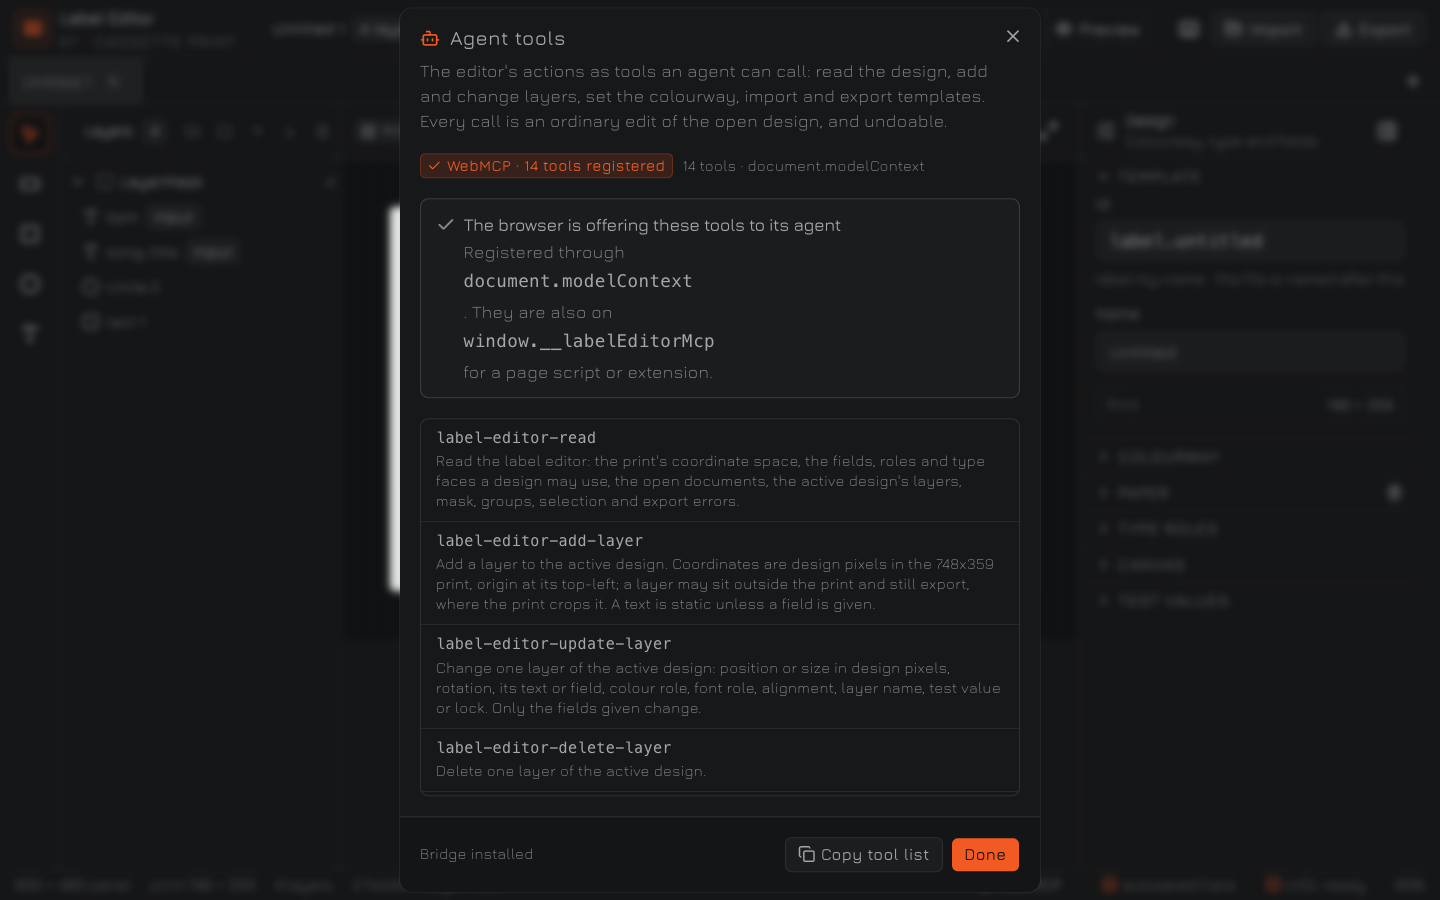
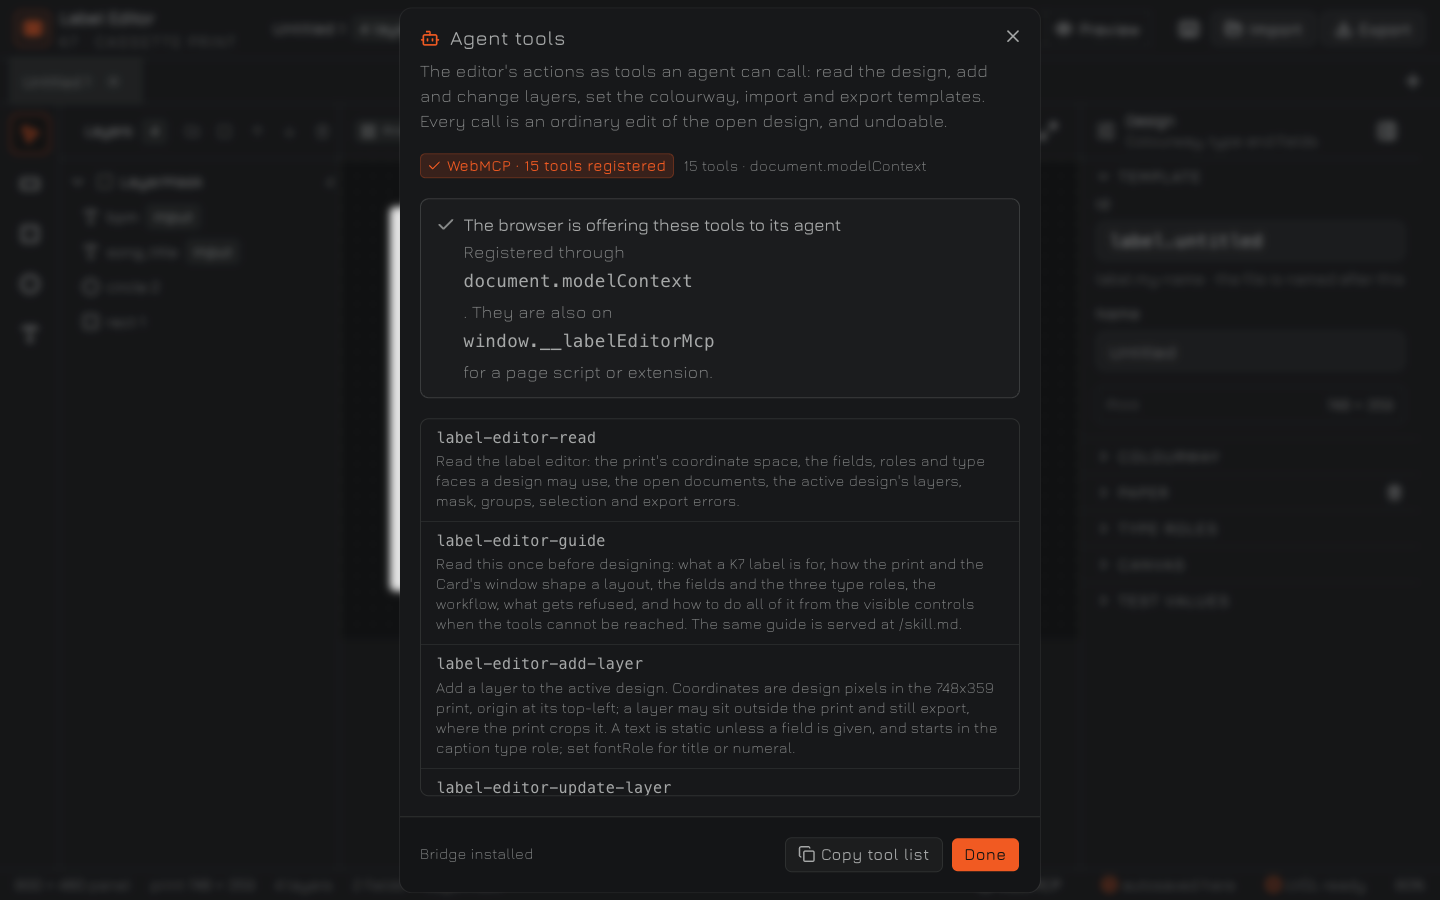
An agent can read the guide in the page when a session blocks its routes
A browser session reported back that `/skill.md` was blocked and its shell could not reach
the page: the tools were there, the instructions were not, and the work carried on by
eyeballing the canvas. A guide that can be unreachable mid-task is not a guide.

The page now answers the guide as a tool. `label-editor-guide` returns the skill's prose — no
generated tool block, which the caller's own tool list already carries, and no frontmatter —
so a session that will not fetch a route still reads what a label is, where the Card's window
cuts it, and what to do. The text is passed in from the skill file at boot, so there is still
one source; `src/webmcp/skill-text.ts` is the one module with the `?raw` import, kept out of
the registry because the skill generator loads that registry through Node and a Vite-only
import would not resolve.

The skill also gains *Driving the visible controls*, for the session that cannot call tools at
all: the tab strip's + for a clean design (the canvas may open on an earlier autosaved one),
the rail for shapes and text, the Inspector's Template/Colourway/Paper/Type roles for the
design, Content for a field, Typography and Appearance for the look, Layers for the order,
Preview and Export to check and land it. Every tool has a control, so a blocked route costs a
click, not the label.

Fifteen tools now: the native spec, the README and the Agent tools screenshot (regenerated in
[…]

Changed region(s): [[0.3125, 0.5911, 0.6875, 0.9022], [0.4062, 0.1556, 0.4688, 0.1867]]

diff --git a/tools/LabelEditor/src/webmcp/skill.test.ts b/tools/LabelEditor/src/webmcp/skill.test.ts
@@ -18,7 +18,7 @@ const skillPath = fileURLToPath(
   new URL("../../skills/k7-labels/SKILL.md", import.meta.url),
 );
 const skill = readFileSync(skillPath, "utf8");
-const tools = labelEditorTools({} as Editor);
+const tools = labelEditorTools({} as Editor, { guide: skill });
 
 /** The hand-written part: everything outside the generated markers. */
 const prose = (() => {
@@ -51,5 +51,18 @@ describe("the K7 label skill", () => {
 
   it("says what the print's box is, because every coordinate is in it", () => {
     expect(prose).toContain("748 × 359");
+  });
+
+  it("hands an agent the guide as a tool result, for a session that blocks routes", () => {
+    const guide = tools.find((t) => t.name === "label-editor-guide");
+    expect(guide).toBeTruthy();
+    const out = guide!.execute({}) as { ok: boolean; guide: string; url: string };
+    expect(out.ok).toBe(true);
+    expect(out.url).toBe("/skill.md");
+    expect(out.guide.startsWith("# A label for the K7")).toBe(true);
+    expect(out.guide).toContain("748 × 359");
+    expect(out.guide).toContain("Driving the visible controls");
+    // The tool list is the caller's own; the generated block does not travel with the prose.
+    expect(out.guide).not.toContain("generated: tools:start");
   });
 });

diff --git a/tools/LabelEditor/src/webmcp/tools.ts b/tools/LabelEditor/src/webmcp/tools.ts
@@ -1,6 +1,7 @@
 import type { Editor } from "@/engine/editor";
 import type { Obj, Tool } from "@/engine/types";
 import type { LabelTool } from "@/webmcp/types";
+import { skillProse } from "./skill";
 import {
   FROLES,
   PRINT_H,
@@ -158,7 +159,10 @@ function docsSummary(ed: Editor) {
   }));
 }
 
-export function labelEditorTools(ed: Editor): LabelTool[] {
+export function labelEditorTools(
+  ed: Editor,
+  opts: { guide: string },
+): LabelTool[] {
   return [
     {
       name: "label-editor-read",
@@ -207,6 +211,18 @@ export function labelEditorTools(ed: Editor): LabelTool[] {
           ...(args.includeTemplate === true ? { template: tpl.doc } : {}),
         };
       },
+    },
+
+    {
+      name: "label-editor-guide",
+      description:
+        "Read this once before designing: what a K7 label is for, how the print and the Card's window shape a layout, the fields and the three type roles, the workflow, what gets refused, and how to do all of it from the visible controls when the tools cannot be reached. The same guide is served at /skill.md.",
+      inputSchema: schema({}),
+      execute: () => ({
+        ok: true,
+        guide: skillProse(opts.guide),
+        url: "/skill.md",
+      }),
     },
 
     {

diff --git a/tools/LabelEditor/src/webmcp/register.ts b/tools/LabelEditor/src/webmcp/register.ts
@@ -1,6 +1,7 @@
 import type { Editor } from "@/engine/editor";
 import { labelEditorTools } from "./tools";
 import type { LabelTool, ModelContextLike } from "./types";
+import { SKILL_TEXT } from "./skill-text";
 
 export interface WebMcpStatus {
   available: boolean;
@@ -45,7 +46,7 @@ export function modelContext(): ModelContextLike | null {
 
 /** Install `window.__labelEditorMcp` so a page script or extension can call the tools. */
 export function installBridge(ed: Editor): LabelEditorBridge {
-  const tools = labelEditorTools(ed);
+  const tools = labelEditorTools(ed, { guide: SKILL_TEXT });
   const byName = new Map(tools.map((t) => [t.name, t]));
   const bridge: LabelEditorBridge = {
     tools: () =>
@@ -74,7 +75,7 @@ export function installBridge(ed: Editor): LabelEditorBridge {
  * rather than leaving an agent with half a surface.
  */
 export async function registerLabelEditorTools(ed: Editor): Promise<WebMcpStatus> {
-  const tools = labelEditorTools(ed);
+  const tools = labelEditorTools(ed, { guide: SKILL_TEXT });
   installBridge(ed);
   webmcpStatus.tools = tools.length;
   if (registering) return webmcpStatus;

diff --git a/tools/LabelEditor/src/webmcp/skill.ts b/tools/LabelEditor/src/webmcp/skill.ts
@@ -105,6 +105,22 @@ export function renderSkillSection(tools: LabelTool[]): string {
   ].join("\n");
 }
 
+/**
+ * The hand-written guide, with the generated tool list taken out. This is what the page hands
+ * an agent through `label-editor-guide`, whose own tool list already carries the schemas.
+ */
+export function skillProse(skill: string): string {
+  const start = skill.indexOf(SKILL_TOOLS_START);
+  const end = skill.indexOf(SKILL_TOOLS_END);
+  const withoutTools =
+    start < 0 || end < 0 || end < start
+      ? skill
+      : skill.slice(0, start) + skill.slice(end + SKILL_TOOLS_END.length);
+  // The YAML frontmatter is the skill loader's; a tool result needs the guide itself.
+  const withoutFrontmatter = withoutTools.replace(/^---\n[\s\S]*?\n---\n/, "");
+  return withoutFrontmatter.replace(/\n{3,}/g, "\n\n").trim();
+}
+
 /** Read a skill file and return the generated body, or null when the markers are missing. */
 export function readSkillSection(skill: string): string | null {
   const start = skill.indexOf(SKILL_TOOLS_START);

diff --git a/tools/LabelEditor/src/components/agent-tools-dialog.tsx b/tools/LabelEditor/src/components/agent-tools-dialog.tsx
@@ -14,6 +14,7 @@ import {
   DialogTitle,
 } from "@/components/ui/dialog";
 import { useEditor } from "@/hooks/use-editor";
+import { SKILL_TEXT } from "@/webmcp/skill-text";
 import { labelEditorTools } from "@/webmcp/tools";
 import { webmcpStatus } from "@/webmcp/register";
 
@@ -30,7 +31,7 @@ export function AgentToolsDialog({
   onOpenChange: (v: boolean) => void;
 }) {
   const ed = useEditor();
-  const tools = useMemo(() => labelEditorTools(ed), [ed]);
+  const tools = useMemo(() => labelEditorTools(ed, { guide: SKILL_TEXT }), [ed]);
   const status = webmcpStatus;
   const bridge =
     typeof window !== "undefined" ? window.__labelEditorMcp : undefined;

diff --git a/tools/LabelEditor/src/webmcp/skill-text.ts b/tools/LabelEditor/src/webmcp/skill-text.ts
@@ -1,0 +1,11 @@
+/**
+ * The skill's text, as the page sees it.
+ *
+ * This is the one module that uses Vite's `?raw` import, and it is kept out of `tools.ts`
+ * and `skill.ts` for a reason: `scripts/build-skill.mjs` loads the registry through Node
+ * (jiti) to regenerate the skill's tool reference, and a `?raw` import would not resolve
+ * there. The page passes the text in; the registry stays plain TypeScript.
+ */
+import skillText from "../../skills/k7-labels/SKILL.md?raw";
+
+export const SKILL_TEXT = skillText;

diff --git a/tools/LabelEditor/src/webmcp/tools.test.ts b/tools/LabelEditor/src/webmcp/tools.test.ts
@@ -4,7 +4,7 @@ import type { Editor } from "@/engine/editor";
 import { labelEditorTools } from "./tools";
 
 // The rules are pure metadata; execute is exercised in the browser tests.
-const tools = labelEditorTools({} as Editor);
+const tools = labelEditorTools({} as Editor, { guide: "" });
 
 describe("the WebMCP tool surface", () => {
   it("has unique, kebab-case names", () => {

diff --git a/tools/LabelEditor/e2e/webmcp-native.spec.ts b/tools/LabelEditor/e2e/webmcp-native.spec.ts
@@ -29,7 +29,7 @@ test("registers with Chrome's WebMCP and runs a tool", async ({ page }) => {
         }),
       { timeout: 10_000 },
     )
-    .toBe(14);
+    .toBe(15);
 
   // Chrome's testing API serialises a tool's return value to JSON text.
   const added = await page.evaluate(async () => {

diff --git a/tools/LabelEditor/skills/k7-labels/SKILL.md b/tools/LabelEditor/skills/k7-labels/SKILL.md
@@ -12,8 +12,9 @@ every Track in the library, so a label is a layout plus references to the player
 
 You design it in the **Label Editor**, a page that offers its actions to you as tools. This
 file is the working guide; `tools/LabelEditor/README.md` and the repository's
-`docs/specs/label-templates.md` are the deeper reference, and the editor serves this file at
-`/skill.md`.
+`docs/specs/label-templates.md` are the deeper reference. The editor serves this file at
+`/skill.md`, and `label-editor-guide` returns it as a tool result for a session where that
+route is blocked.
 
 ## What you are designing
 
@@ -41,6 +42,10 @@ the one to call first. If you cannot see them, the editor page is not open, or t
 no WebMCP — ask the human to open http://localhost:5178 in a browser that has the API. The
 same calls also live on `window.__labelEditorMcp` for a page script, which is how the repo's
 own `scripts/test-label.mjs` drives them.
+
+If the page's routes are blocked, call `label-editor-guide` instead of reading `/skill.md`.
+If the tools themselves cannot be reached, every action still has a visible control — see
+*Driving the visible controls*, below — so a label is still finishable in this session.
 
 - **Read first, every time.** `label-editor-read` returns the board, the fields, the colour
   roles, the type roles, the open documents, and the active design's layers and export errors.
@@ -116,6 +121,10 @@ cut at 96 characters. A design with no layer at all is refused.
 
 ## The tools
 
+The complete reference — every tool, its sentence and its arguments — is written below from
+the page's own registry. When you read this through `label-editor-guide` that block is left
+out, because your tool list already carries the same schemas.
+
 <!-- generated: tools:start -->
 ### `label-editor-read`
 
@@ -124,6 +133,12 @@ Read the label editor: the print's coordinate space, the fields, roles and type 
 | Argument | Type | Required | Notes |
 |---|---|---|---|
 | `includeTemplate` | `boolean` |  | Also return the active design as a label-template v1 object. |
+
+### `label-editor-guide`
+
+Read this once before designing: what a K7 label is for, how the print and the Card's window shape a layout, the fields and the three type roles, the workflow, what gets refused, and how to do all of it from the visible controls when the tools cannot be reached. The same guide is served at /skill.md.
+
+Takes no arguments.
 
 ### `label-editor-add-layer`
 
@@ -372,6 +387,34 @@ A refusal is a sentence naming the design and the layer, so read it rather than 
 The last gate is the packer, which the human runs: it refuses the same facts, and a file in
 `assets/labels/templates/` that is not a design fails the firmware build by name. So check the
 JSON you hand over: `v`, `id`, `space`, `prims` at least, and `errors: []` from the export.
+
+## Driving the visible controls
+
+If you cannot reach the tools — a browser agent that only clicks, or a session whose network
+blocks the page's routes — every action above has a control. The page is the editor: a rail on
+the left, the Layers panel and the print in the middle, the Inspector on the right, and the
+documents' tabs across the top.
+
+1. **Start clean.** The **+** at the end of the tab strip opens a new design. Every design
+   autosaves in this browser, so the canvas may open on one from last time: start a new one
+   rather than editing earlier work.
+2. **Set the design.** With nothing selected the Inspector shows it: **Template** (Id, Name),
+   **Colourway** (ink, rule, the eight bands), **Paper** (colour and radius — it is the
+   LayerMask, and without it there is no background), **Type roles** (the three pairs), and
+   **Test values** (what the fields preview).
+3. **Add layers.** The rail: **Rectangle (R)**, **Square (S)**, **Circle (O)**, **Text (T)** —
+   pick one, then click the print where it goes; **Select (V)** to stop adding. Fine-tune in
+   **Layout**: X, Y, Width (a text's *wrap width*), Height, Radius, Rotation °.
+4. **Give a text its job.** **Content** → **Kind**: *Dynamic text (from a field)*, then
+   **Field**; or *Static text*, then **Text**. **Test value** changes only the preview.
+5. **Give it its look.** **Typography** → **Font role** (title, numeral, caption) and
+   **Align**; **Appearance** → **Colour role** (ink or a band).
+6. **Order the layers.** The Layers panel lists the front layer first: drag a row, or use
+   **Raise** and **Lower** in its header, to put a band behind the type.
+7. **Check and export.** **Preview** (the Design/Preview switch in the app bar) draws it with
+   the LVGL build the panel runs; **Export** writes the JSON, or says what stops it.
+
+That is the same design the tools build, one click at a time.
 
 ## When you are done
 

diff --git a/tools/LabelEditor/README.md b/tools/LabelEditor/README.md
@@ -120,9 +120,14 @@ tools live in the page that owns the design, so an MCP client reaches them throu
 browser: native WebMCP, the bridge below, or Playwright (`scripts/test-label.mjs`). A server
 would have to own a page to be useful, and then two places would hold the same design.
 
+A session that will not fetch a route still gets the guide: `label-editor-guide` returns it as
+a tool result. A session that cannot call the tools at all can still make the label — the same
+guide says which visible controls do what.
+
 | Tool | What it does |
 |---|---|
 | `label-editor-read` | The coordinate space, fields, roles, type faces, open documents, layers, mask, groups, selection and export errors. |
+| `label-editor-guide` | The guide to designing a K7 label in one result — the print and the Card's window, the fields, the workflow, the refusals, and the visible-controls path. The same file is served at `/skill.md`; this is for a session that blocks routes. |
 | `label-editor-add-layer` | Add a rect, square, circle or text at a design-pixel position; a text is static unless it names a field. |
 | `label-editor-update-layer` | Change one layer's position, size, rotation, text or field, role, font role, alignment, name, test value or lock. |
 | `label-editor-delete-layer` | Delete a layer. |
@@ -155,17 +160,17 @@ const status = window.__labelEditorMcp.status(); // { available, via, registered
 The status bar's **WebMCP** button opens *Agent tools*: the registration state, every
 tool with its description, and a copy of the list as JSON.
 
-![The Agent tools dialog, with all 14 tools registered](docs/agent-tools.png) Each call is an ordinary edit
+![The Agent tools dialog, with all 15 tools registered](docs/agent-tools.png) Each call is an ordinary edit
 of the open design — it updates the UI and is undoable. No tool downloads a file or calls
 the network; import takes a template object and export returns one.
 
-`e2e/webmcp.spec.ts` stubs `document.modelContext`, asserts all 14 tools register, runs
+`e2e/webmcp.spec.ts` stubs `document.modelContext`, asserts all 15 tools register, runs
 add/update/read/export through them, and checks that a refused call changes nothing. A
 second test removes the API and asserts the bridge still works.
 
 `e2e/webmcp-native.spec.ts` uses Chrome's own WebMCP instead: the `webmcp-native` project
 launches Chrome with `--enable-features=WebMCP` (the feature behind the
-`#enable-webmcp-testing` flag), waits for the 14 tools, and adds a text through
+`#enable-webmcp-testing` flag), waits for the 15 tools, and adds a text through
 `document.modelContext.executeTool`. It skips on a Chrome that does not expose the API, so
 `npm run e2e` stays green everywhere.
 
@@ -185,7 +190,7 @@ Three ways to try it by hand:
      --enable-features=WebMCP \
      http://localhost:5178
    ```
-   Open the status bar's **WebMCP** button: it should say *14 tools registered* through
+   Open the status bar's **WebMCP** button: it should say *15 tools registered* through
    `document.modelContext`. In the console:
    ```js
    const tools = await document.modelContext.getTools();

diff --git a/tools/LabelEditor/docs/labels-for-the-k7.md b/tools/LabelEditor/docs/labels-for-the-k7.md
@@ -80,11 +80,12 @@ texts, the Inspector sets the colourway and the type roles, Layers keeps the ord
 
 **With an agent.** The editor offers its actions as WebMCP tools, and ships a skill that says
 how to use them: [`skills/k7-labels/SKILL.md`](../skills/k7-labels/SKILL.md).
-The dev server serves the same file at `http://localhost:5178/skill.md`, so an agent that can
-read the page can read its instructions too. An agent that can drive WebMCP — ChatGPT desktop
-with the page open, Chrome with `--enable-features=WebMCP`, or any browser agent — can then
-read the design, lay out paper, bands and type, bind the fields, validate, and export. What to
-ask for is a brief, not a tool call:
+The dev server serves the same file at `http://localhost:5178/skill.md`, and the page also
+answers it as a tool — `label-editor-guide` — which is the road for a session that will not
+fetch a route. An agent that can drive WebMCP — ChatGPT desktop with the page open, Chrome with
+`--enable-features=WebMCP`, or any browser agent — can then read the design, lay out paper,
+bands and type, bind the fields, validate, and export. What to ask for is a brief, not a tool
+call:
 
 > Open http://localhost:5178, read /skill.md, and make a label for a synthwave track: deep
 > navy paper, a blue band across the top with the title, artist and BPM, and the album, mood
@@ -92,6 +93,12 @@ ask for is a brief, not a tool call:
 
 The human's receipt is the status bar's **WebMCP** button (Agent tools), which lists every
 tool the page registered while the agent was working.
+
+If the agent has no tools at all — a browser session that only clicks, or one that blocks the
+page's routes — the label is still finishable: the skill carries a *Driving the visible
+controls* walkthrough that maps every tool to the panel it lives in (rail, Inspector sections,
+Layers, Export), and the canvas may open on an earlier autosaved design, so the first step is
+the tab strip's **+**.
 
 ## How a design reaches the player
 
